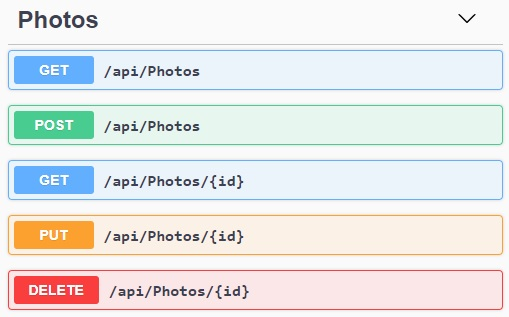
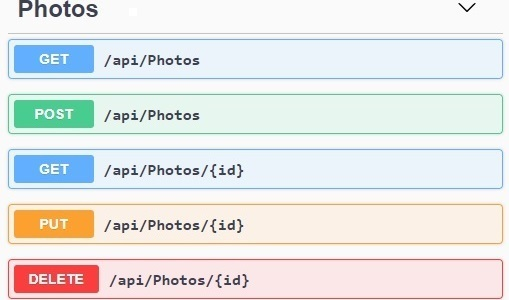
Update Readme

Changed region(s): [[0.0, 0.0, 1.0, 0.63], [0.0, 0.66, 1.0, 1.0]]

diff --git a/README.md b/README.md
@@ -1,2 +1,9 @@
 # PhotosApi
-A Microservice in ASP.NET Web API 
+This is the Microservice in ASP.NET web API that was built to handle the Photo's workload:
+
+![screenshot](./PhotosMethods.jpg)
+
+## Additional Description
+It is the API for my repository [PhotoGallery](https://github.com/moraeslucas/PhotoGallery). More precisely, this Microservice handles the Photo's requests (Posts, etc):
+
+![screenshot](./PostPhoto.jpg)
